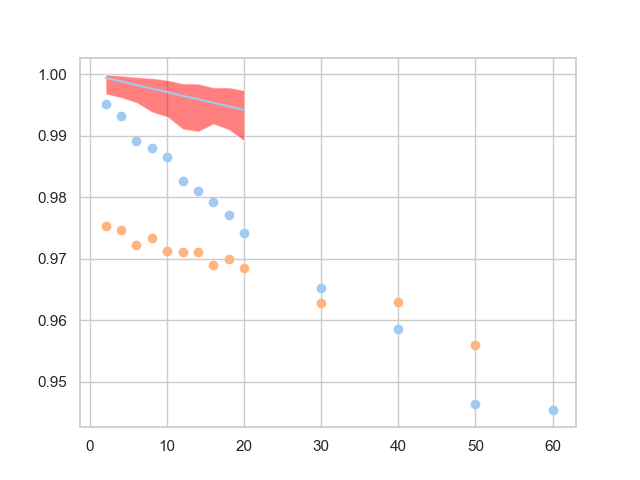
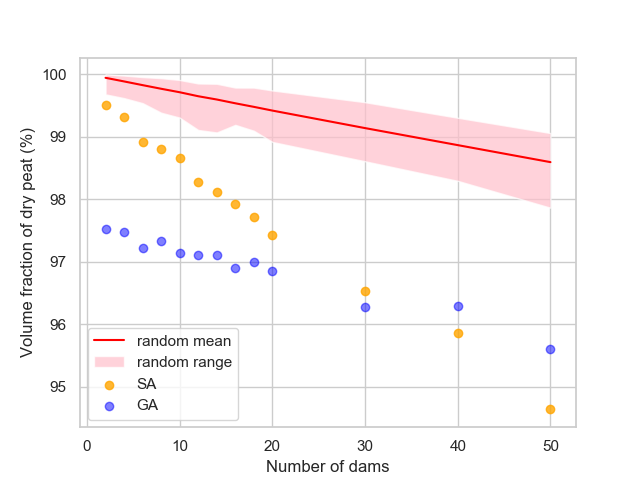
local changes in home for Winrock plots.

diff --git a/hydro.py b/hydro.py
@@ -54,11 +54,11 @@ def big_4_raster_plot(title, raster1, raster2, raster3, raster4):
         axes1[1,1].set(title="elevation - phi")
 
 
-def plot_line_of_peat(raster, y_value, title, nx, ny, label):
+def plot_line_of_peat(raster, y_value, title, nx, ny, label, color, linewidth=1.):
     plt.figure(10)
     plt.title(title)
-    plt.plot(raster[y_value,:], label=label)
-    plt.legend()
+    plt.plot(raster[y_value,:], label=label, color=color, linewidth=linewidth)
+    plt.legend(fontsize='x-large')
     
     return 0
         
@@ -157,13 +157,10 @@ def hydrology(solve_mode, nx, ny, dx, dy, days, ele, phi_initial, catchment_mask
                 raster3=ele.reshape(ny,nx),
                 raster4=(ele-phi.value).reshape(ny,nx)
                 )
-
+        # for later cross-section plots
         y_value=270
-        print "first cross-section plot"
-        ele_with_can = copy.copy(ele).reshape(ny,nx)
-        ele_with_can = ele_with_can * catchment_mask
-        ele_with_can[wt_canal_arr > 0] = wt_canal_arr[wt_canal_arr > 0]
-        plot_line_of_peat(ele_with_can, y_value=y_value, title="cross-section", nx=nx, ny=ny, label="ele")
+
+
         
 
 
@@ -207,7 +204,7 @@ def hydrology(solve_mode, nx, ny, dx, dy, days, ele, phi_initial, catchment_mask
     #********************************************************
                                                                   
     d=0   # day counter
-    timeStep = 1.                                                            
+    timeStep = 0.5                                                          
     max_sweeps = 1 # inner loop.
     ET = 0. # constant evapotranspoiration mm/day
     P = 6.0 # constant precipitation mm/day
@@ -234,8 +231,9 @@ def hydrology(solve_mode, nx, ny, dx, dy, days, ele, phi_initial, catchment_mask
 #        print d
         
         if plotOpt:
-           # print "one more cross-section plot"
-            plot_line_of_peat(phi.value.reshape(ny,nx), y_value=y_value, title="cross-section",  nx=nx, ny=ny, label=d)
+            if d==1 or d==2 or d==3 or d==4:
+#                print "one more cross-section plot " + str(d)
+                plot_line_of_peat(phi.value.reshape(ny,nx), y_value=y_value, title="cross-section",  nx=nx, ny=ny, label=' WTD after ' + str(d) + ' day(s)', color='cornflowerblue', linewidth=1.0)
 
         
         res = 0.0
@@ -263,6 +261,12 @@ def hydrology(solve_mode, nx, ny, dx, dy, days, ele, phi_initial, catchment_mask
             if remove_ponding_water:                 
                 s=np.where(phi.value>ele,ele,phi.value)                        # remove the surface water. This also removes phi in those masked values (for the plot only)
                 phi.setValue(s)                                                # set new values for water table
+                
+            plt.figure()
+            plt.imshow((ele-phi.value).reshape(ny,nx)[360:430,70:130], cmap='cividis')
+            plt.title(str(d))
+            plt.axis('off')
+            plt.colorbar()
 
         
         if (D.value<0.).any():
@@ -307,6 +311,12 @@ def hydrology(solve_mode, nx, ny, dx, dy, days, ele, phi_initial, catchment_mask
         axes[1,0].set(title="avg D over time")
         axes[1,1].plot(avg_wt_over_time)
         axes[1,1].set(title="avg_wt_over_time")
+        
+        # plot surface in cross-section
+        ele_with_can = copy.copy(ele).reshape(ny,nx)
+        ele_with_can = ele_with_can * catchment_mask
+        ele_with_can[wt_canal_arr > 0] = wt_canal_arr[wt_canal_arr > 0]
+        plot_line_of_peat(ele_with_can, y_value=y_value, title="cross-section", nx=nx, ny=ny, label="surface", color='peru', linewidth=2.0)
     
         plt.show()
         

diff --git a/output/plot.py b/output/plot.py
@@ -37,29 +37,34 @@ dry_peat_vol_no_dams = 40191.730578848255 # normalization value
 
 
 mc_df = mc_df[mc_df.i != 0]
-number_dams = (2,4,6,8,10,12,14,16,18,20, 30, 40, 50, 60)
-mean_mc = [mc_df[mc_df.ndams == i]['dry_peat_vol'].mean()/dry_peat_vol_no_dams for i in number_dams]
-max_mc = [mc_df[mc_df.ndams == i]['dry_peat_vol'].max()/dry_peat_vol_no_dams for i in number_dams]
-min_mc = [mc_df[mc_df.ndams == i]['dry_peat_vol'].min()/dry_peat_vol_no_dams for i in number_dams]
+number_dams = (2,4,6,8,10,12,14,16,18,20, 30, 40, 50)
+mean_mc = [mc_df[mc_df.ndams == i]['dry_peat_vol'].mean()/dry_peat_vol_no_dams*100 for i in number_dams]
+max_mc = [mc_df[mc_df.ndams == i]['dry_peat_vol'].max()/dry_peat_vol_no_dams*100 for i in number_dams]
+min_mc = [mc_df[mc_df.ndams == i]['dry_peat_vol'].min()/dry_peat_vol_no_dams*100 for i in number_dams]
 
 sa_df = sa_df.rename(columns=rename_cols_sa)
-sa_df.dry_peat_vol = sa_df.dry_peat_vol/dry_peat_vol_no_dams
+sa_df.dry_peat_vol = sa_df.dry_peat_vol/dry_peat_vol_no_dams*100
 
 ga_df = ga_df.rename(columns=rename_cols_ga)
-ga_df.dry_peat_vol = ga_df.dry_peat_vol/dry_peat_vol_no_dams
+ga_df.dry_peat_vol = ga_df.dry_peat_vol/dry_peat_vol_no_dams*100
 
+# Choose to plot ndams from number_dams above
+sa_plot = sa_df.loc[sa_df['ndams'].isin(number_dams)]
+ga_plot = ga_df.loc[ga_df['ndams'].isin(number_dams)]
 
 """
  Plot
 """
 
 fig, ax = plt.subplots(1)
-ax.plot(number_dams, mean_mc)
-ax.fill_between(number_dams, max_mc, min_mc, facecolor='red', alpha=0.5 )
+ax.plot(number_dams, mean_mc, alpha=1.0, color='red', label='random mean')
+ax.fill_between(number_dams, max_mc, min_mc, facecolor='pink', alpha=0.7, label='random range')
+ax.set_xlabel('Number of dams')
+ax.set_ylabel('Volume fraction of dry peat (%)')
 
-
-ax.scatter(x=sa_df.ndams.to_numpy(), y=sa_df.dry_peat_vol.to_numpy())
-ax.scatter(x=ga_df.ndams.to_numpy(), y=ga_df.dry_peat_vol.to_numpy())
+ax.scatter(x=sa_plot.ndams.to_numpy(), y=sa_plot.dry_peat_vol.to_numpy(), label='SA', alpha=0.8, color='orange')
+ax.scatter(x=ga_plot.ndams.to_numpy(), y=ga_plot.dry_peat_vol.to_numpy(), label='GA', alpha=0.5, color='blue')
+plt.legend()
 
 fname_fig = r'results_plot.png'
 plt.savefig(fname_fig)

diff --git a/main.py b/main.py
@@ -26,9 +26,9 @@ Parse command-line arguments
 """
 parser = argparse.ArgumentParser(description='Run hydro without any optimization.')
 
-parser.add_argument('-d','--days', default=3, help='(int) Number of outermost iterations of the fipy solver, be it steadystate or transient. Default=10.', type=int)
-parser.add_argument('-b','--nblocks', default=5, help='(int) Number of blocks to locate. Default=5.', type=int)
-parser.add_argument('-n','--niter', default=2, help='(int) Number of repetitions of the whole computation. Default=10', type=int)
+parser.add_argument('-d','--days', default=5, help='(int) Number of outermost iterations of the fipy solver, be it steadystate or transient. Default=10.', type=int)
+parser.add_argument('-b','--nblocks', default=100, help='(int) Number of blocks to locate. Default=5.', type=int)
+parser.add_argument('-n','--niter', default=1, help='(int) Number of repetitions of the whole computation. Default=10', type=int)
 args = parser.parse_args()
 
 DAYS = args.days
@@ -94,7 +94,7 @@ sto_to_cut = sto_to_cut * catchment_mask.ravel()
 srfcanlist =[dem[coords] for coords in c_to_r_list]
 
 n_canals = len(c_to_r_list)
-block_height = 0.4 # water level of canal after placing dam.
+block_height = 0.2 # water level of canal after placing dam.
 
 # HANDCRAFTED WATER LEVEL IN CANALS. CHANGE WITH MEASURED, IDEALLY.
 canal_water_level = 1.2
@@ -145,7 +145,7 @@ for i in range(0,N_ITER):
     
     dry_peat_volume = hydro.hydrology('transient', nx, ny, dx, dy, DAYS, ele, phi_ini, catchment_mask, wt_canal_arr, boundary_arr,
                                                       peat_type_mask=peat_type_mask, httd=h_to_tra_and_C_dict, tra_to_cut=tra_to_cut, sto_to_cut=sto_to_cut,
-                                                      diri_bc=diri_bc, neumann_bc = None, plotOpt=False, remove_ponding_water=True)
+                                                      diri_bc=diri_bc, neumann_bc = None, plotOpt=True, remove_ponding_water=True)
     """
     Final printings
     """
